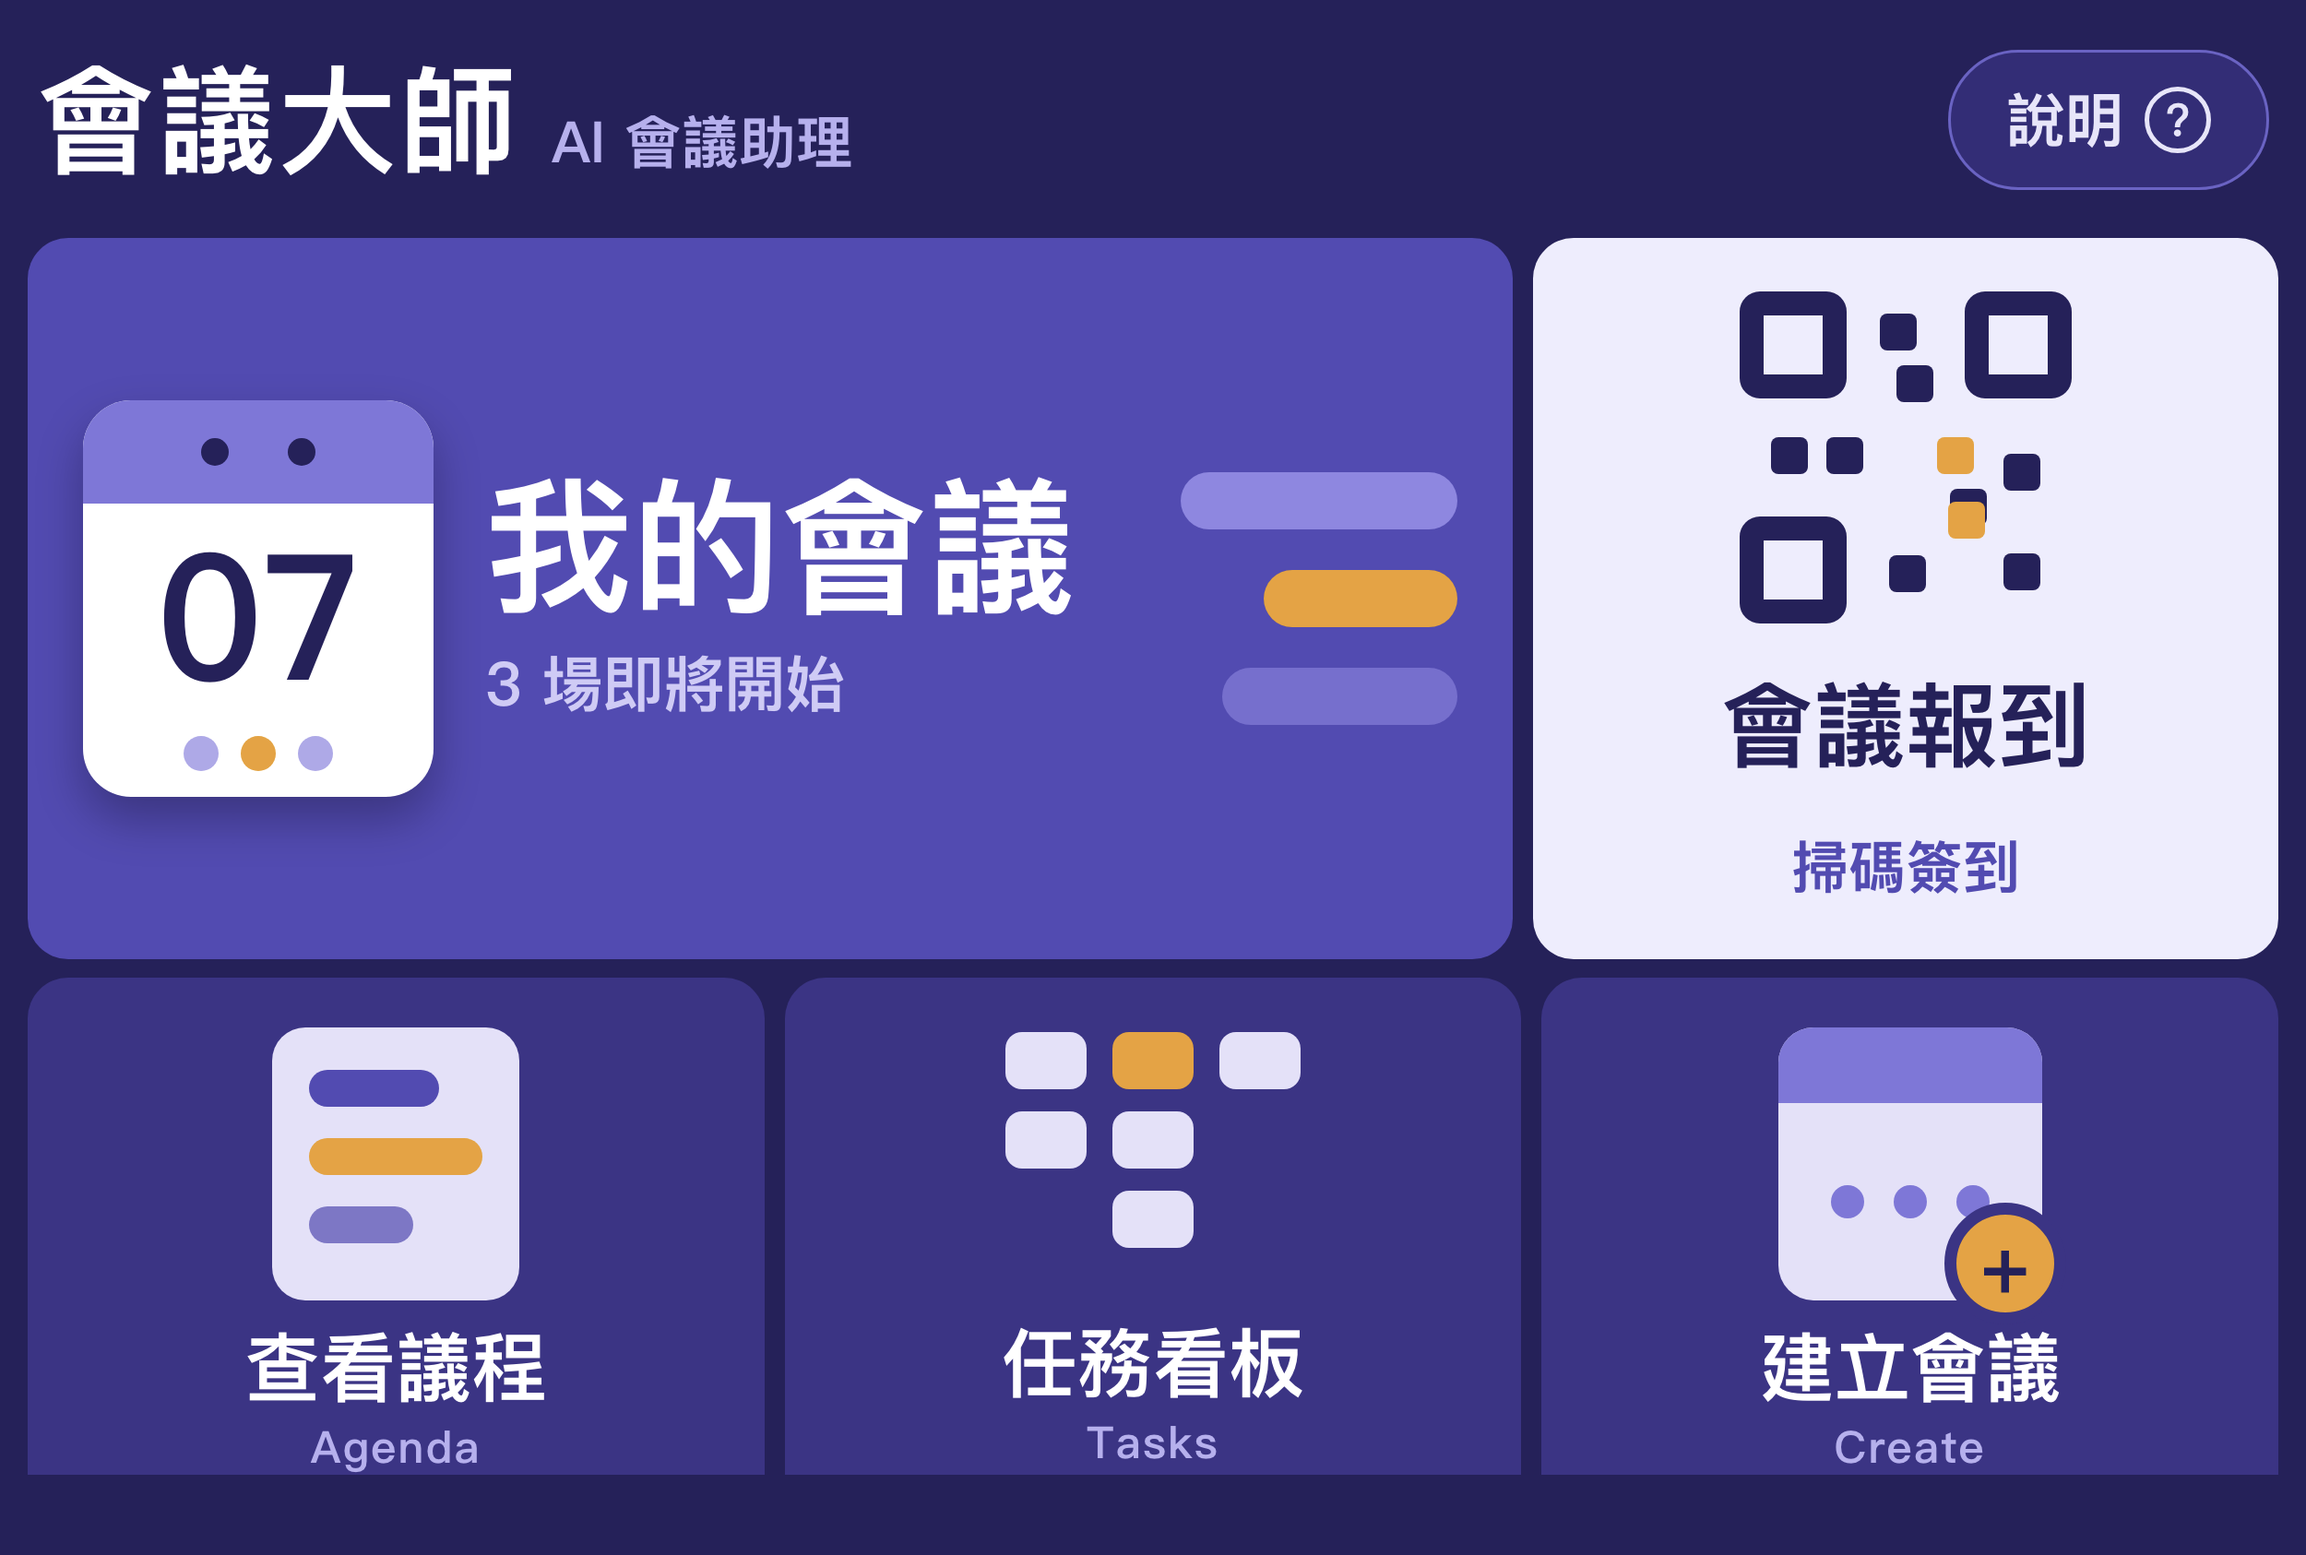
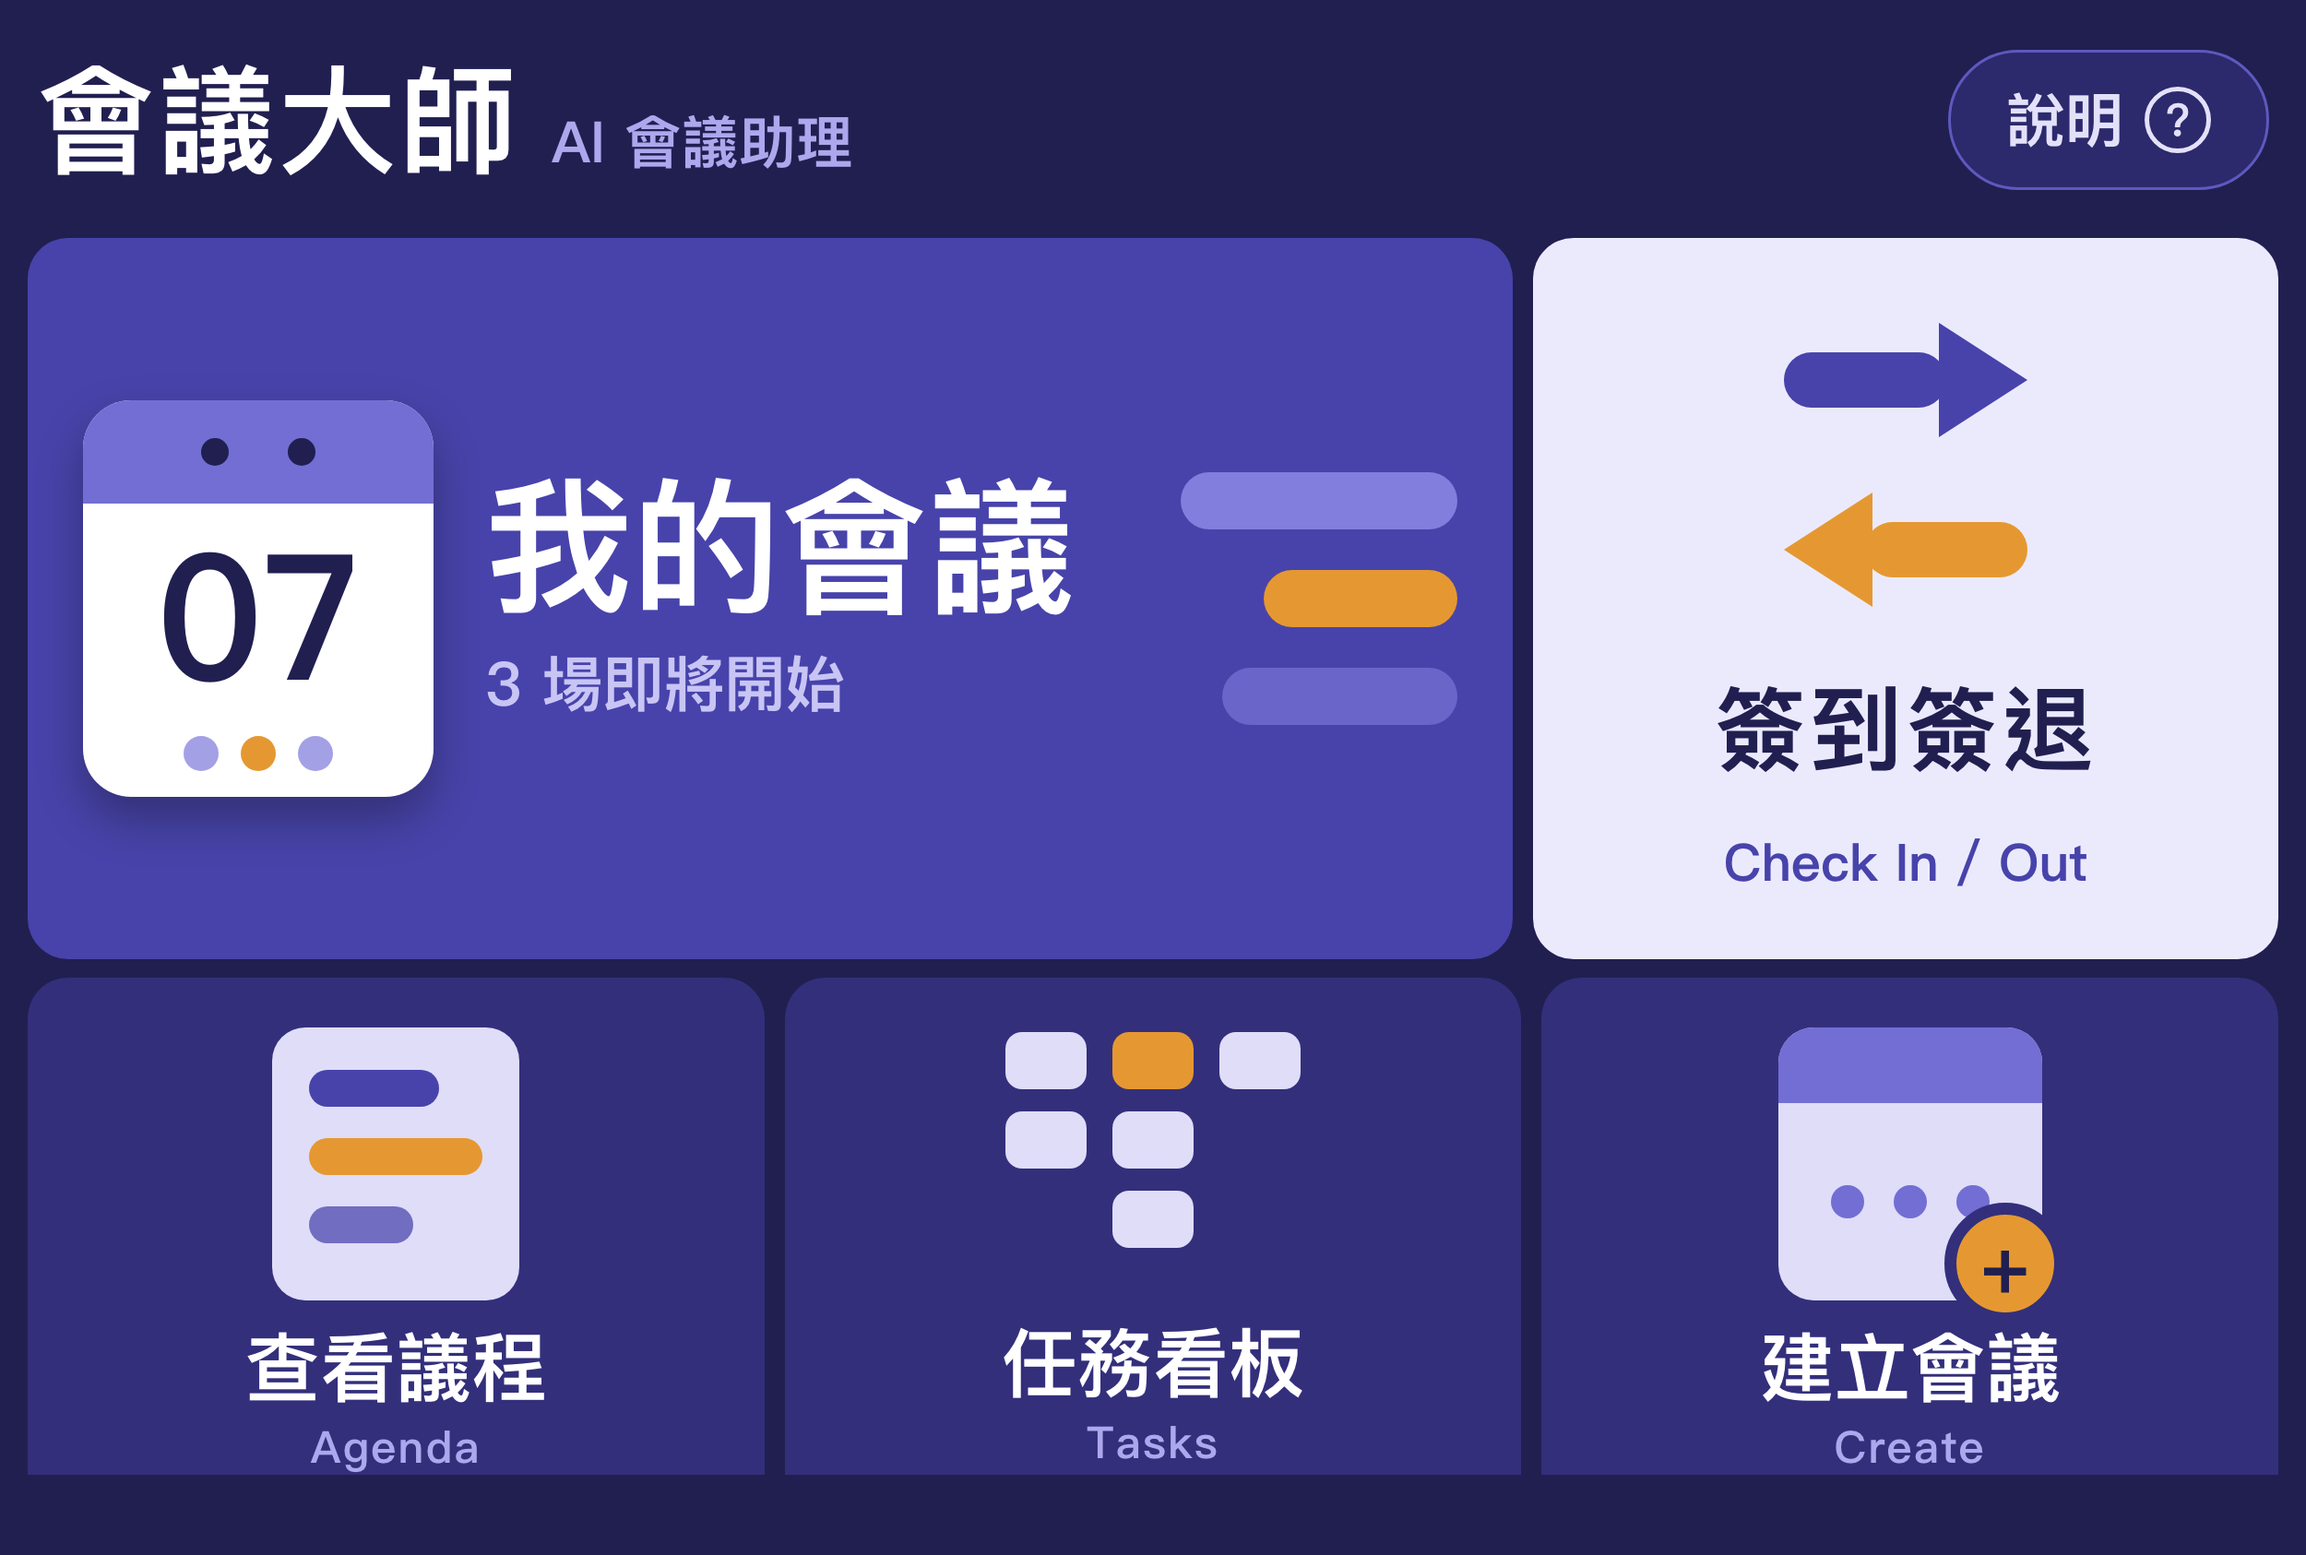
Rich menu: 會議報到 box → 簽到簽退 / Check In / Out
Replace the QR check-in glyph with a two-arrow in/out icon (violet in ▸,
orange out ◂) and switch the label to bilingual 簽到簽退 / Check In / Out,
matching the Agenda/Tasks/Create cells. Regenerated richmenu_main.png
(2500×1686). Touch action keyword unchanged.

Changed region(s): [[0.7488, 0.1851, 0.9048, 0.4009], [0.7488, 0.5243, 0.9048, 0.586], [0.7488, 0.4318, 0.9048, 0.4935]]

diff --git a/richmenu/render.html b/richmenu/render.html
@@ -45,12 +45,19 @@
   .agendaBars i { height: 62px; border-radius: 999px; display: block; }
 
   .cardCheckin { width: 808px; background: #EEEDFE; padding: 40px; display: flex; flex-direction: column;
-    align-items: center; justify-content: center; gap: 40px; }
-  .qr { width: 360px; height: 360px; position: relative; }
-  .qr .finder { position: absolute; width: 116px; height: 116px; border: 26px solid #26215C; border-radius: 22px; }
-  .qr .m { position: absolute; width: 40px; height: 40px; background: #26215C; border-radius: 8px; }
-  .cardCheckin .t { font-size: 100px; font-weight: 800; color: #26215C; }
-  .cardCheckin .s { font-size: 62px; font-weight: 700; color: #534AB7; }
+    align-items: center; justify-content: center; gap: 36px; }
+  /* check-in / check-out: two antiparallel arrows (in ▸ violet, out ◂ orange) */
+  .io { width: 380px; height: 360px; display: flex; flex-direction: column;
+    align-items: center; justify-content: center; gap: 60px; }
+  .arw { display: flex; align-items: center; }
+  .arw .shaft { height: 60px; border-radius: 999px; display: block; }
+  .arw .head { width: 0; height: 0; border-top: 62px solid transparent; border-bottom: 62px solid transparent; display: block; }
+  .arwIn  .shaft { width: 176px; background: #534AB7; }
+  .arwIn  .head  { border-left: 96px solid #534AB7; margin-left: -8px; }
+  .arwOut .head  { border-right: 96px solid #EF9F27; margin-right: -8px; }
+  .arwOut .shaft { width: 176px; background: #EF9F27; }
+  .cardCheckin .t { font-size: 100px; font-weight: 800; color: #26215C; letter-spacing: 4px; }
+  .cardCheckin .s { font-size: 56px; font-weight: 700; color: #534AB7; }
 
   /* ---- Row 2 (y 1062–1650): 3 equal ---- */
   .row2 { position: absolute; left: 30px; top: 1060px; width: 2440px; height: 596px; display: flex; gap: 22px; }
@@ -105,23 +112,12 @@
         </div>
       </div>
       <div class="card cardCheckin">
-        <div class="qr">
-          <div class="finder" style="top:0;left:0"></div>
-          <div class="finder" style="top:0;right:0"></div>
-          <div class="finder" style="bottom:0;left:0"></div>
-          <div class="m" style="top:24px;right:168px"></div>
-          <div class="m" style="top:80px;right:150px"></div>
-          <div class="m" style="top:158px;left:34px"></div>
-          <div class="m" style="top:158px;left:94px"></div>
-          <div class="m" style="top:158px;left:214px;background:#EF9F27"></div>
-          <div class="m" style="top:214px;right:92px"></div>
-          <div class="m" style="bottom:144px;right:34px"></div>
-          <div class="m" style="bottom:92px;right:94px;background:#EF9F27"></div>
-          <div class="m" style="bottom:34px;right:158px"></div>
-          <div class="m" style="bottom:36px;right:34px"></div>
+        <div class="io">
+          <div class="arw arwIn"><span class="shaft"></span><span class="head"></span></div>
+          <div class="arw arwOut"><span class="head"></span><span class="shaft"></span></div>
         </div>
-        <div class="t">會議報到</div>
-        <div class="s">掃碼簽到</div>
+        <div class="t">簽到簽退</div>
+        <div class="s">Check In / Out</div>
       </div>
     </div>
 
